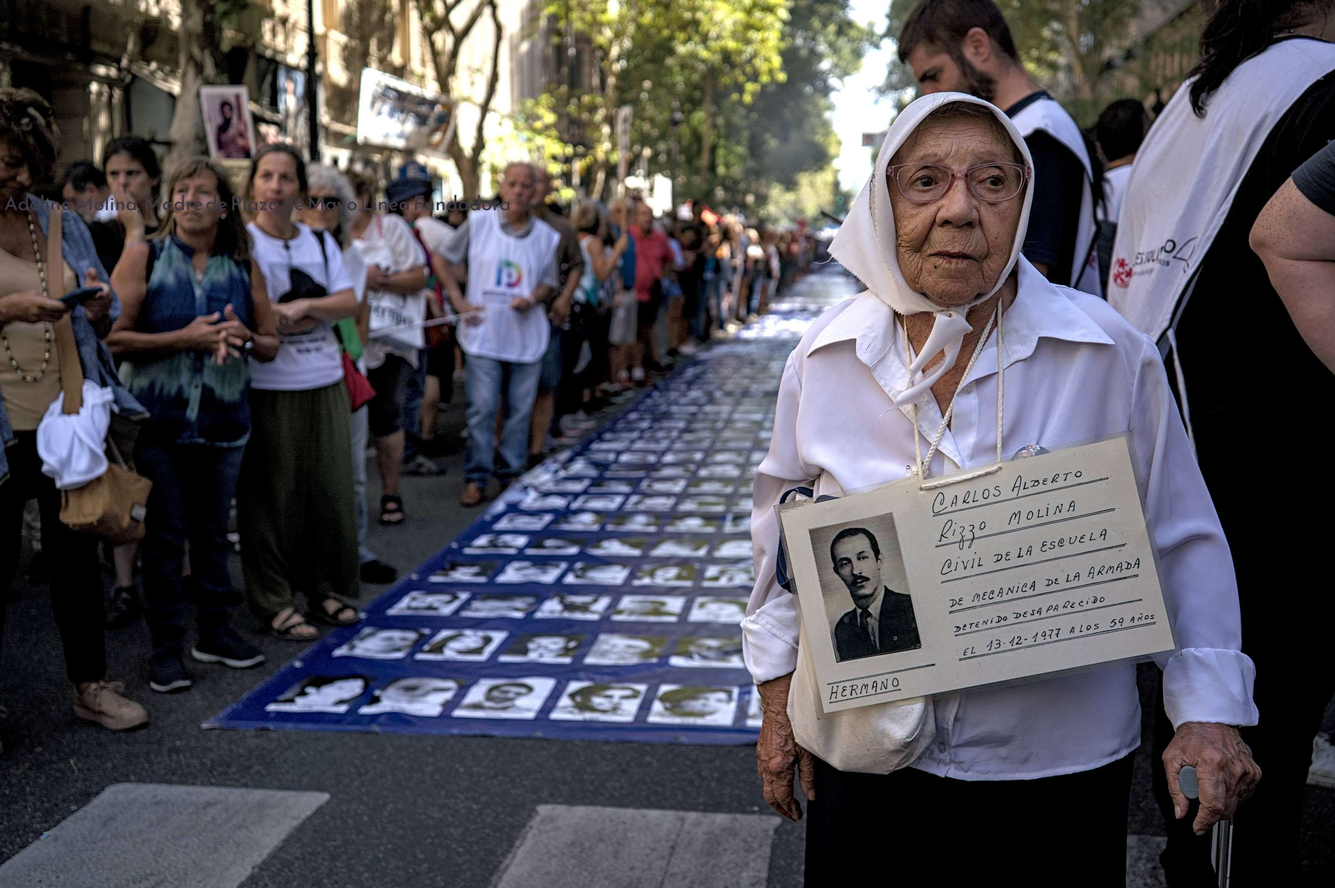
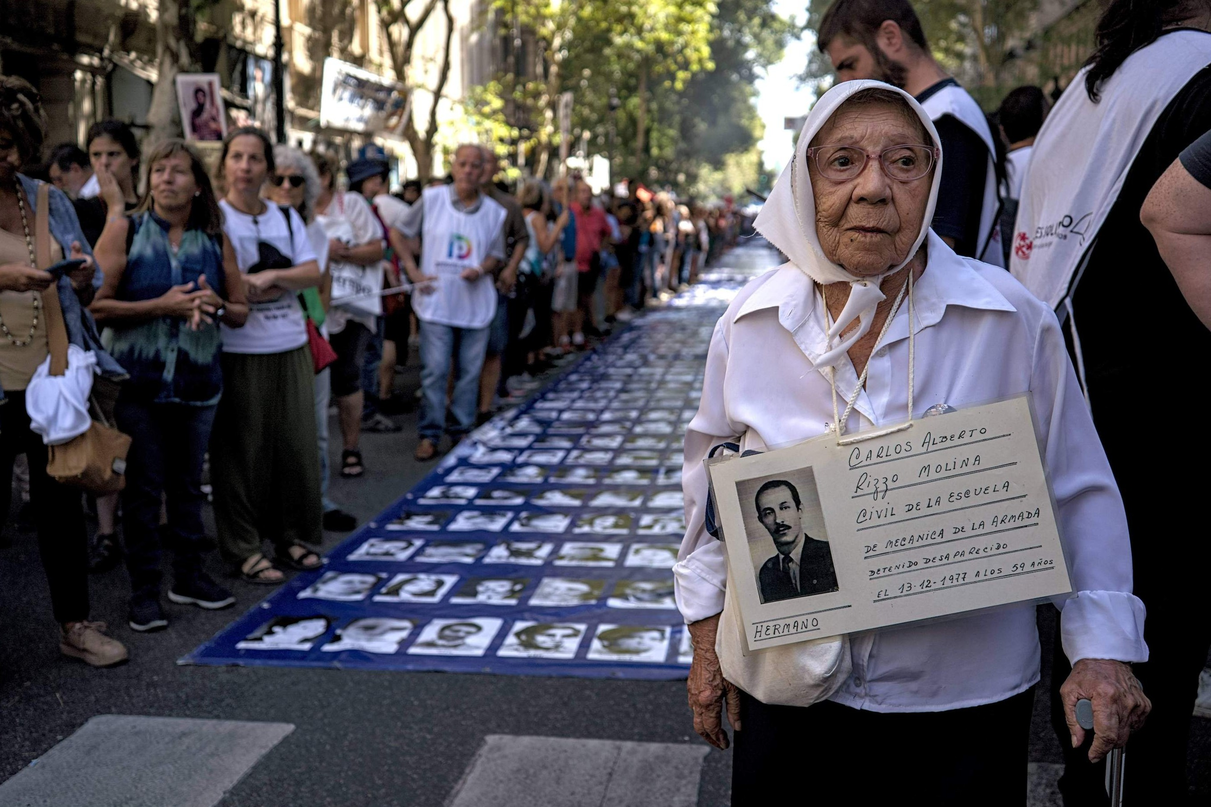
cambio la imagen de la galería
y también al de la madre con marcadeagua

diff --git a/gallery/index.html b/gallery/index.html
@@ -3,7 +3,7 @@ layout: page
 title: "Álbumes"
 description: "archivo"
 active: gallery
-header-img: "img/bosquedesenfocado.jpg"
+header-img: "img/agua.jpg"
 images:
  - image_path: /gallery/archive/g01/0088.jpg
    gallery-folder: /gallery/gallery01/
